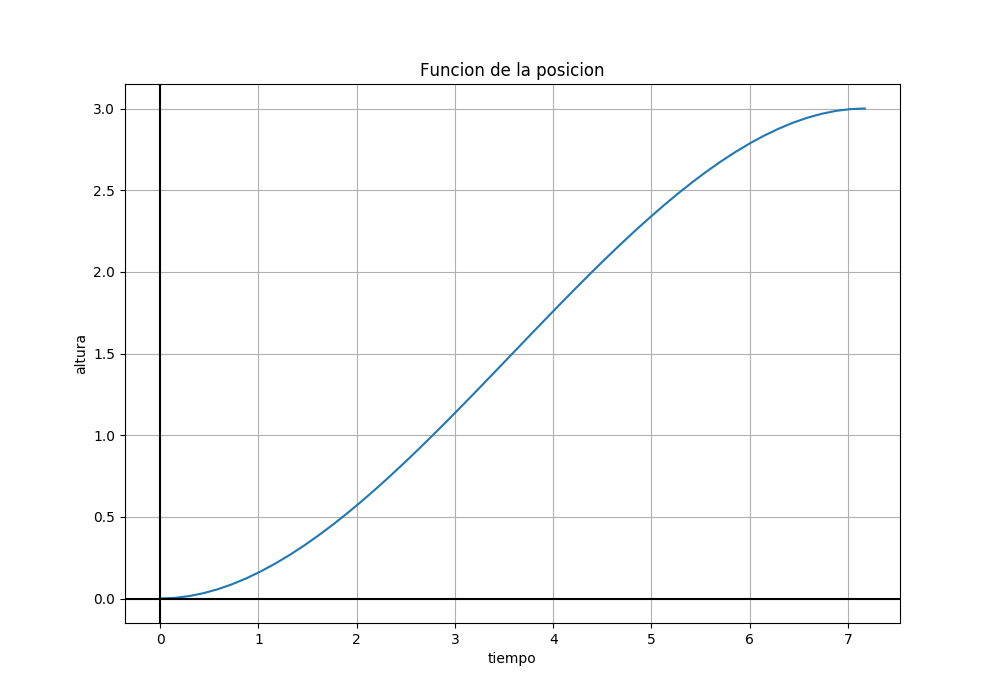
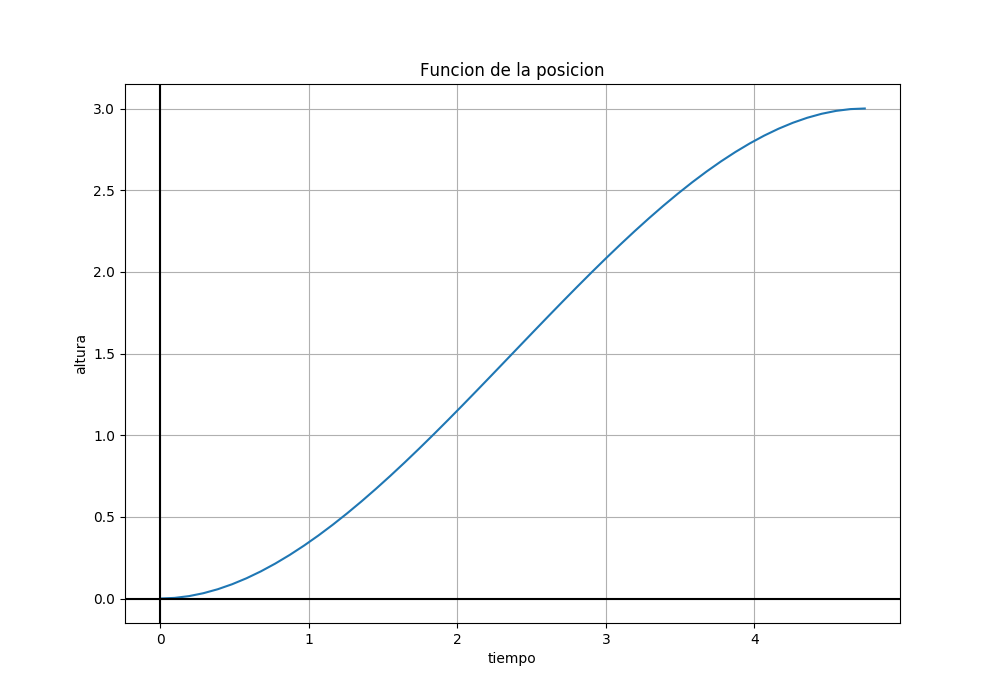
ultimo

Changed region(s): [[0.744, 0.9, 0.775, 0.93]]

diff --git a/Tp1.py b/Tp1.py
@@ -4,163 +4,166 @@ Problemas de busqueda de raices
 Creando un ascensor
 """
 
-#Imports
+# Imports
 import math
-import matplotlib
-from matplotlib import pyplot
+#import matplotlib
+#from matplotlib import pyplot
 
-matplotlib.use('Agg')
+#matplotlib.use('Agg')
 
-import numpy as np #Manejo de arrays
-import matplotlib.pylab as plt #Rutinas gráficas
+#import numpy as np  # Manejo de arrays
+#import matplotlib.pylab as plt  # Rutinas gráficas
 
 ##Constantes
-fuerza = 280 #Fuerza medida en newtons
+fuerza = 280  # Fuerza medida en Newtons
 
-masa_cabina = 350 #peso cabina
+masa_cabina = 350  # Masa medida en kg
 
-masa_persona = 75 #peso prom personas
+masa_persona = 75  # Masa medida en kg
 
-numero_personas = 6 #a determinar
+numero_personas = 0  # Cantidad de pasajeros
 
-masa = masa_cabina + masa_persona*numero_personas
+masa = masa_cabina + masa_persona * numero_personas
 
-altura = 3 #altura de un piso medida en metros
+altura = 3  # altura de un piso medida en metros
 
-acel_maxima = fuerza/masa #aceleracion maxima posible
+acel_maxima = fuerza / masa  # aceleracion maxima posible
 
-tiempo_final = math.sqrt(18*masa/fuerza)
+tiempo_final = math.sqrt(18 * masa / fuerza)
 
-tiempoEn30Porciento = ( (fuerza / masa) - acel_maxima * 0.3 ) * (masa/fuerza) * (tiempo_final / 2)
-
+tiempoEn30Porciento = ((fuerza / masa) - acel_maxima * 0.3) * (masa / fuerza) * (tiempo_final / 2)
 
 print('-------------------------------------')
-print('La fuerza que voy a usar es ', fuerza, '[N]')
+print('La fuerza utilizada es ', fuerza, '[N]')
 print('------------------- ------------------')
-print('La masa que voy a usar es ', masa, '[Kg]')
+print('La masa utilizada es ', masa, '[Kg]')
 print('-------------------------------------')
-print('La altura que voy a usar es ', altura, '[m]')
+print('La altura utilizasa es ', altura, '[m]')
 print('-------------------------------------')
 print('La aceleracion maxima es ', acel_maxima, '[m/s^2]')
 print('-------------------------------------')
 
-###Funciones posicion (f) y velocidad (f derivada ) y aceleracion (f derivada segunda)
+
+###Funciones posicion (f), velocidad (f derivada) y aceleracion (f derivada segunda)
 def posicion(t):
-    x = (fuerza/masa) * (((t**2) /2) - ((t**3) / (tiempo_final * 3)))
+    x = (fuerza / masa) * (((t ** 2) / 2) - ((t ** 3) / (tiempo_final * 3)))
     return x
 
+
 def velocidad(t):
-    v = (fuerza/masa) * (t  - ((t**2) / tiempo_final))
+    v = (fuerza / masa) * (t - ((t ** 2) / tiempo_final))
     return v
 
+
 def aceleracion(t):
-    a = ( (fuerza/masa) * (1  - ((t*2) / tiempo_final)))
+    a = ((fuerza / masa) * (1 - ((t * 2) / tiempo_final)))
     return a
 
-
-#grafico de posicion
-
-x = np.linspace(0, tiempo_final )
-y = posicion(x)
-plt.figure(figsize = (10,7))
-plt.plot(x, y)
-pyplot.axhline(0, color="black")
-pyplot.axvline(0, color="black")
-plt.xlabel('tiempo')
-plt.ylabel('altura')
-plt.title('Funcion de la posicion')
-plt.grid(True)
-plt.savefig('Grafico Posicion')
-
-#grafico de velocidad
-
-x = np.linspace(0, tiempo_final )
-y = velocidad(x)
-plt.figure(figsize = (10,7))
-plt.plot(x, y)
-pyplot.axhline(0, color="black")
-pyplot.axvline(0, color="black")
-plt.xlabel('tiempo')
-plt.ylabel('vel')
-plt.title('Funcion de la velocidad')
-plt.grid(True)
-plt.savefig('Grafico Velocidad')
-
-#grafico de aceleracion
-
-x = np.linspace(0, tiempo_final )
-y = aceleracion(x)
-plt.figure(figsize = (10,7))
-plt.plot(x, y)
-pyplot.axhline(0, color="black")
-pyplot.axvline(0, color="black")
-plt.xlabel('tiempo')
-plt.ylabel('aceleracion')
-plt.title('Funcion de la aceleracion')
-plt.grid(True)
-plt.savefig('Grafico Aceleracion')
-
+# # grafico de posicion
+#
+# x = np.linspace(0, tiempo_final)
+# y = posicion(x)
+# plt.figure(figsize=(10, 7))
+# plt.plot(x, y)
+# pyplot.axhline(0, color="black")
+# pyplot.axvline(0, color="black")
+# plt.xlabel('tiempo')
+# plt.ylabel('altura')
+# plt.title('Funcion de la posicion')
+# plt.grid(True)
+# plt.savefig('Grafico Posicion')
+#
+# # grafico de velocidad
+#
+# x = np.linspace(0, tiempo_final)
+# y = velocidad(x)
+# plt.figure(figsize=(10, 7))
+# plt.plot(x, y)
+# pyplot.axhline(0, color="black")
+# pyplot.axvline(0, color="black")
+# plt.xlabel('tiempo')
+# plt.ylabel('vel')
+# plt.title('Funcion de la velocidad')
+# plt.grid(True)
+# plt.savefig('Grafico Velocidad')
+#
+# # grafico de aceleracion
+#
+# x = np.linspace(0, tiempo_final)
+# y = aceleracion(x)
+# plt.figure(figsize=(10, 7))
+# plt.plot(x, y)
+# pyplot.axhline(0, color="black")
+# pyplot.axvline(0, color="black")
+# plt.xlabel('tiempo')
+# plt.ylabel('aceleracion')
+# plt.title('Funcion de la aceleracion')
+# plt.grid(True)
+# plt.savefig('Grafico Aceleracion')
 
 
 def f(x):
-    fa = posicion(x) - posicion(tiempoEn30Porciento) #este es el X0
+    fa = posicion(x) - posicion(tiempoEn30Porciento)  #funcion g
     df = velocidad(x)
     return fa, df
-    
-TOL = 5E-16    # tolerancia
-MAXITER_B = 2  # maxima cantidad de iteraciones para biseccion
-MAXITER_N = 60  # maxima cantidad de iteraciones para newton
 
-def Biseccion(a,b):
-   formato_salida_B = '%03d %+.17E %+.3E'
-   fa = f(a)[0]
-   fb = f(b)[0]
-   print('-------------------------------------')
-   print("Método de bisección")
-   if abs(fa) < TOL:
-       xo = a
-       print(formato_salida_B % (0, xo, fa))
-   elif abs(fb) < TOL:
+
+TOL = 1E-3  # tolerancia
+MAXITER_B = 2  # maxima cantidad de iteraciones para Biseccion
+MAXITER_N = 60  # maxima cantidad de iteraciones para Newton Raphson
+
+
+def Biseccion(a, b):
+    formato_salida_B = '%03d %+.17E %+.3E'
+    fa = f(a)[0]
+    fb = f(b)[0]
+    print('-------------------------------------')
+    print("Método de bisección")
+    print("ite           xo               f(xo)")
+    if abs(fa) < TOL:
+        xo = a
+        print(formato_salida_B % (0, xo, fa))
+    elif abs(fb) < TOL:
         xo = b
         print(formato_salida_B % (0, xo, fb))
-   elif fb * fa < 0:
-       k = 0
-       fin = False
-       while k < MAXITER_B and not fin:
-           xo = (a + b) / 2
-           f_val = f(xo)[0]
-           print(formato_salida_B % (k, xo, f_val))
-           k += 1
-           if abs(f_val) < TOL:
-               fin = True
-           elif f(a)[0] * f_val < 0:
-               b = xo
-           else:
-               a = xo
-   else:
-       print("El intervalo no contiene raíces")
-       xo = a
-   return xo
-
-
+    elif fb * fa < 0:
+        k = 0
+        fin = False
+        while k < MAXITER_B and not fin:
+            xo = (a + b) / 2
+            f_val = f(xo)[0]
+            print(formato_salida_B % (k, xo, f_val))
+            k += 1
+            if abs(f_val) < TOL:
+                fin = True
+            elif f(a)[0] * f_val < 0:
+                b = xo
+            else:
+                a = xo
+    else:
+        print("El intervalo no contiene raíces")
+        xo = a
+    return xo
 
 
 def Newton():
-    xo = Biseccion(0,tiempo_final)
+    xo = Biseccion(0, tiempo_final)
     formato_salida_N = '%03d %+.17E %+.3E %+.3E'
     print('-------------------------------------')
     print("Método de Newton")
+    print("ite           xo               f(xo)        dx")
     k = 0
     fin = False
     while k < MAXITER_N and not fin:
         fo = f(xo)[0]
         dfo = f(xo)[1]
         xk = -fo / dfo + xo
-        e_u = (xo - xk) / xk
-        fin = abs(fo) < TOL and abs(e_u) < TOL
+        e_u = (xo - xk)
+        fin = abs(e_u) < TOL
         print(formato_salida_N % (k, xo, fo, e_u))
         xo = xk
         k += 1
     return None
+
 
 Newton()
